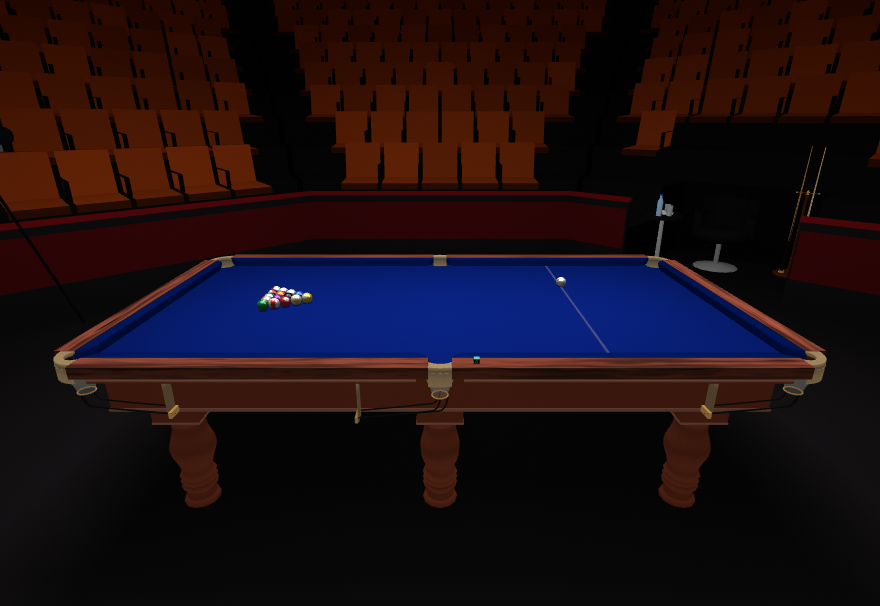
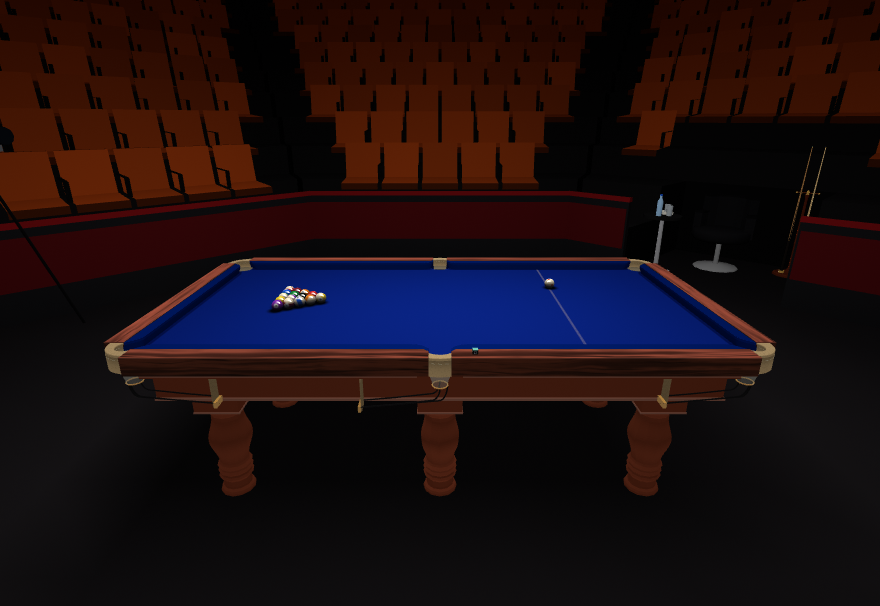
CueVR guide (9.0.8): Chinese 8-ball on the official 9 ft Heyball table (2540 x 1260 mm), the 10 ft kept as a second size; its chalk and the magic rack; new table picture

Changed region(s): [[0.0614, 0.4158, 0.9511, 0.8614], [0.2761, 0.4752, 0.3682, 0.5347], [0.4602, 0.802, 0.5216, 0.8614]]

diff --git a/docs/cuevr-guide.html b/docs/cuevr-guide.html
@@ -1236,11 +1236,15 @@
   <div class="mode">
     <div>
       <h3>Chinese 8-ball</h3>
-      <div class="spec">10FT TABLE · SOLIDS AND STRIPES · ROUNDED POCKETS</div>
+      <div class="spec">9FT TABLE · SOLIDS AND STRIPES · ROUNDED POCKETS</div>
       <p>Pool balls and WPA 8-ball rules — identical to US 8-ball above, including ball in hand
       anywhere for any foul, and including the cushion requirement: a shot that neither pots a ball
-      nor sends any ball to a cushion after the contact is a foul. Played on a ten-foot table built
-      like a snooker table, with tight rounded pockets and dressed in the same napped baize.</p>
+      nor sends any ball to a cushion after the contact is a foul. Played on the official Heyball
+      table, 2540 × 1260 mm of cloth (a nine-foot bed), built like a snooker table, with tight rounded
+      pockets and dressed in the same napped baize. The ten-foot table the game used before 9.0.8 is
+      still there as a second size in the table settings. The cloth is chalked as the rules say: the
+      head string and the foot spot. The rack is set on a black magic rack, which is taken away once
+      every ball has moved off its spot.</p>
       <p>Those pockets are the whole difference. They reject a ball hit too hard and punish an
       approach that is even slightly off. Of the pool games it is the tightest at 1.50 ball widths, and only the two Russian pyramid tables are harder.</p>
       <p>The RULES row carries four ways to play it. <b>HEYBALL</b> is the standard code and calls
@@ -2696,7 +2700,7 @@
         <td><b>1.78</b> · 101.6 mm</td><td><b>2.00</b> · 114.3 mm</td><td><b>2.06</b> · 117.5 mm</td></tr>
     <tr><td><span class="cap-t">MIDDLE</span></td>
         <td>1.40 · 80.0 mm</td><td>1.62 · 92.7 mm</td><td>1.73 · 99.0 mm</td></tr>
-    <tr><td>Chinese 8-ball 10 ft<br><span class="cap-t">CORNER</span></td>
+    <tr><td>Chinese 8-ball 9 ft<br><span class="cap-t">CORNER</span></td>
         <td><b>1.50</b> · 85.7 mm</td><td><b>1.54</b> · 88.0 mm</td><td><b>1.61</b> · 92.0 mm</td></tr>
     <tr><td><span class="cap-t">MIDDLE</span></td>
         <td>1.50 · 85.7 mm</td><td>1.58 · 90.0 mm</td><td>1.66 · 95.0 mm</td></tr>
@@ -4044,7 +4048,7 @@
 
   <p><b>AUTO</b> gives each table the body it would really have: the 7 ft pub table gets CABINET, the
   9 ft American beds and straight pool get PRO, the 12 ft match table, 10-red snooker, English
-  billiards and Paul get SNOOKER, and everything else — the Chinese 10 ft, pyramid, bar billiards,
+  billiards and Paul get SNOOKER, and everything else — the Chinese table, pyramid, bar billiards,
   the rotation games and any many-sided or round bed — gets VICTORIAN.</p>
   <p>A table dressed with <b>string pockets</b> is always built on one of the three snooker bodies
   — <span class="cap-t">SNOOKER</span>, <span class="cap-t">ARCADE</span> or
@@ -4502,7 +4506,7 @@
 
   <div class="note">
     <b>START FROM is at the top of every page, and it is the way back.</b> It reloads a whole ready-made
-    table — UK 8-ball 7 ft, US 8-ball 9 ft, 9-ball 9 ft, Chinese 8 10 ft, snooker 6-red, 10 ft and
+    table — UK 8-ball 7 ft, US 8-ball 9 ft, 9-ball 9 ft, Chinese 8 9 ft, snooker 6-red, 10 ft and
     12 ft, straight pool, pyramid 12 ft and 7 ft, and billiards 12 ft — and <b>discards everything
     you have changed</b>. Bar billiards is not on the list: its nine holes sit at fixed coordinates
     and it is a rectangle or it is nothing.
@@ -5075,7 +5079,7 @@
         <td><b>1.78</b> balls · 101.6 mm</td><td><b>2.00</b> · 114.3 mm</td><td><b>2.06</b> · 117.5 mm</td></tr>
     <tr><td><span class="cap-t">MIDDLE</span></td>
         <td>1.40 balls · 80.0 mm</td><td>1.62 · 92.7 mm</td><td>1.73 · 99.0 mm</td></tr>
-    <tr><td>Chinese 8-ball 10 ft<br><span class="cap-t">CORNER</span></td>
+    <tr><td>Chinese 8-ball 9 ft<br><span class="cap-t">CORNER</span></td>
         <td><b>1.50</b> balls · 85.7 mm</td><td><b>1.54</b> · 88.0 mm</td><td><b>1.61</b> · 92.0 mm</td></tr>
     <tr><td><span class="cap-t">MIDDLE</span></td>
         <td>1.50 balls · 85.7 mm</td><td>1.58 · 90.0 mm</td><td>1.66 · 95.0 mm</td></tr>
